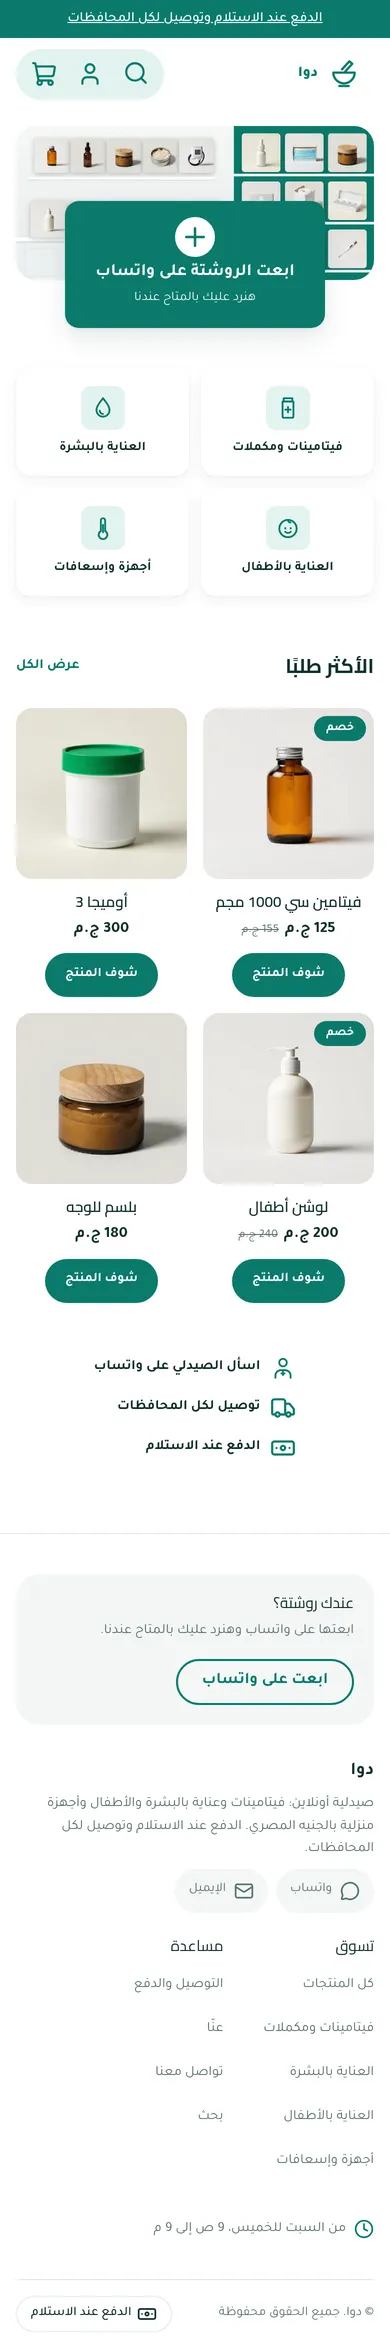
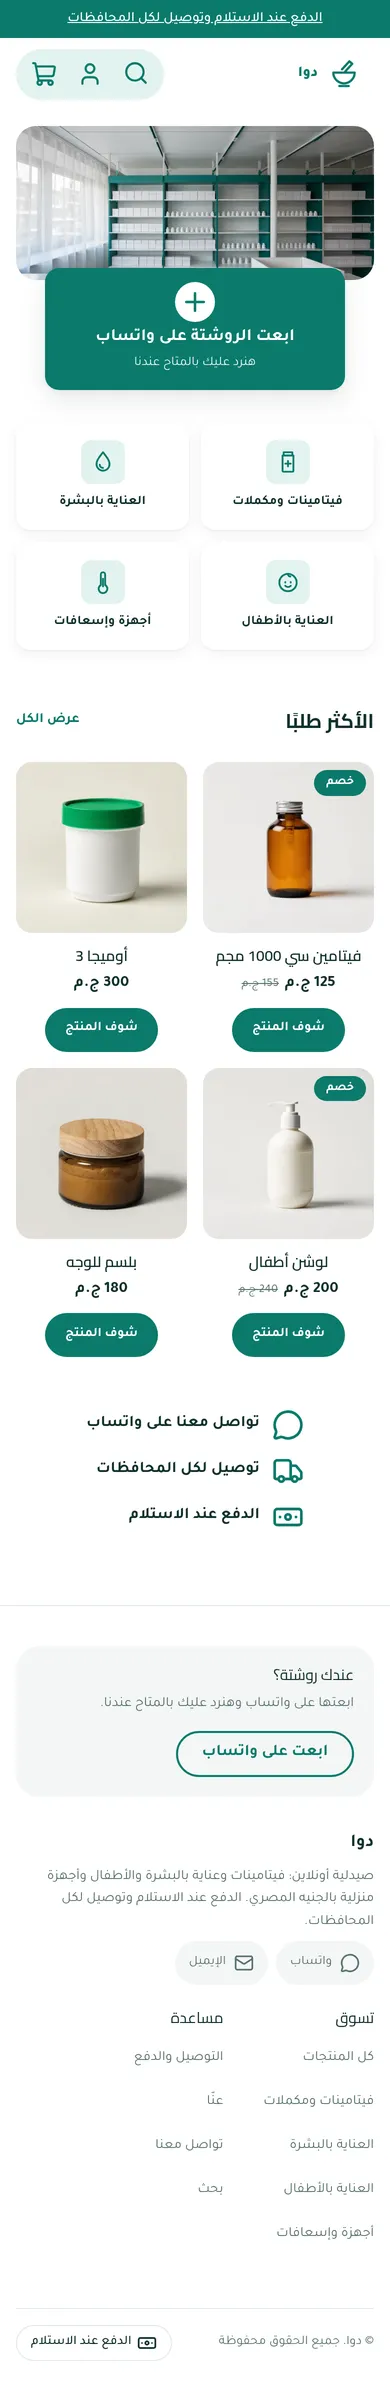
feat(examples): dawa — pharmacy counter hero photo

diff --git a/examples/themes/dawa/README.md b/examples/themes/dawa/README.md
@@ -37,7 +37,7 @@ blocks/                    category-tile, trust, menu-link, footer-*, social-lin
 snippets/                  product-card, price, button, glyph (inline pharmacy icons)
 locales/                   ar.json, en.json (same keys)
 assets/theme.css           the only stylesheet; every colour is a token
-assets/hero.webp           default hero, a shelf arrangement made from product photos
+assets/hero.webp           bundled copy of the default hero (a pharmacy counter photo)
 ```
 
 ## Excerpts
